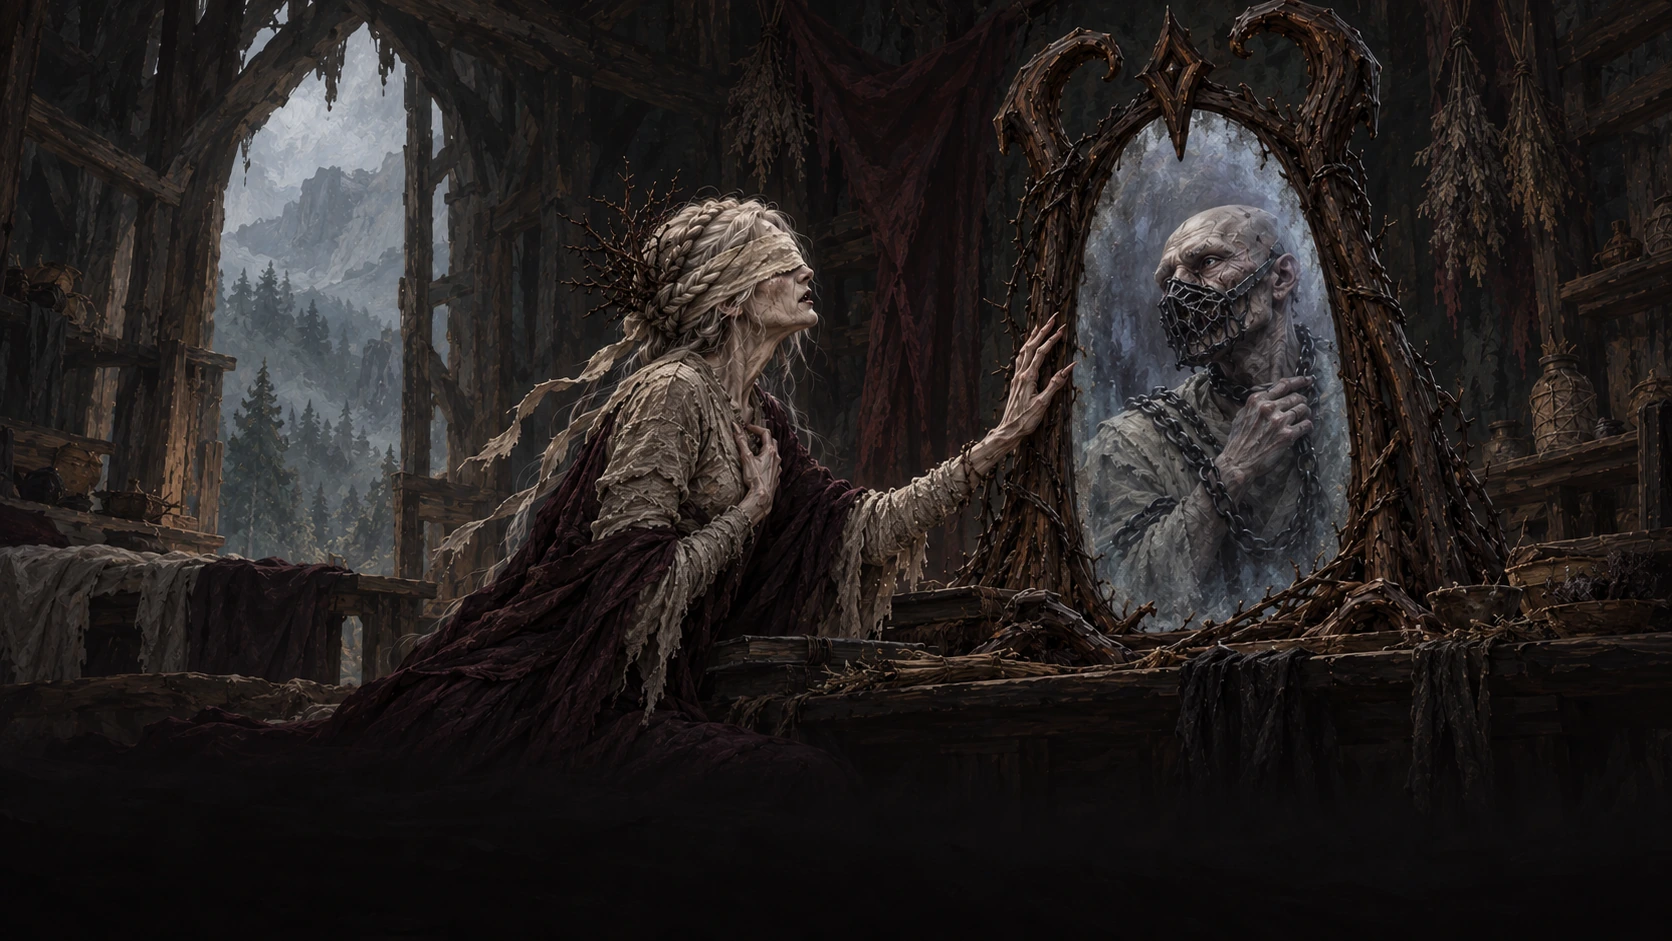
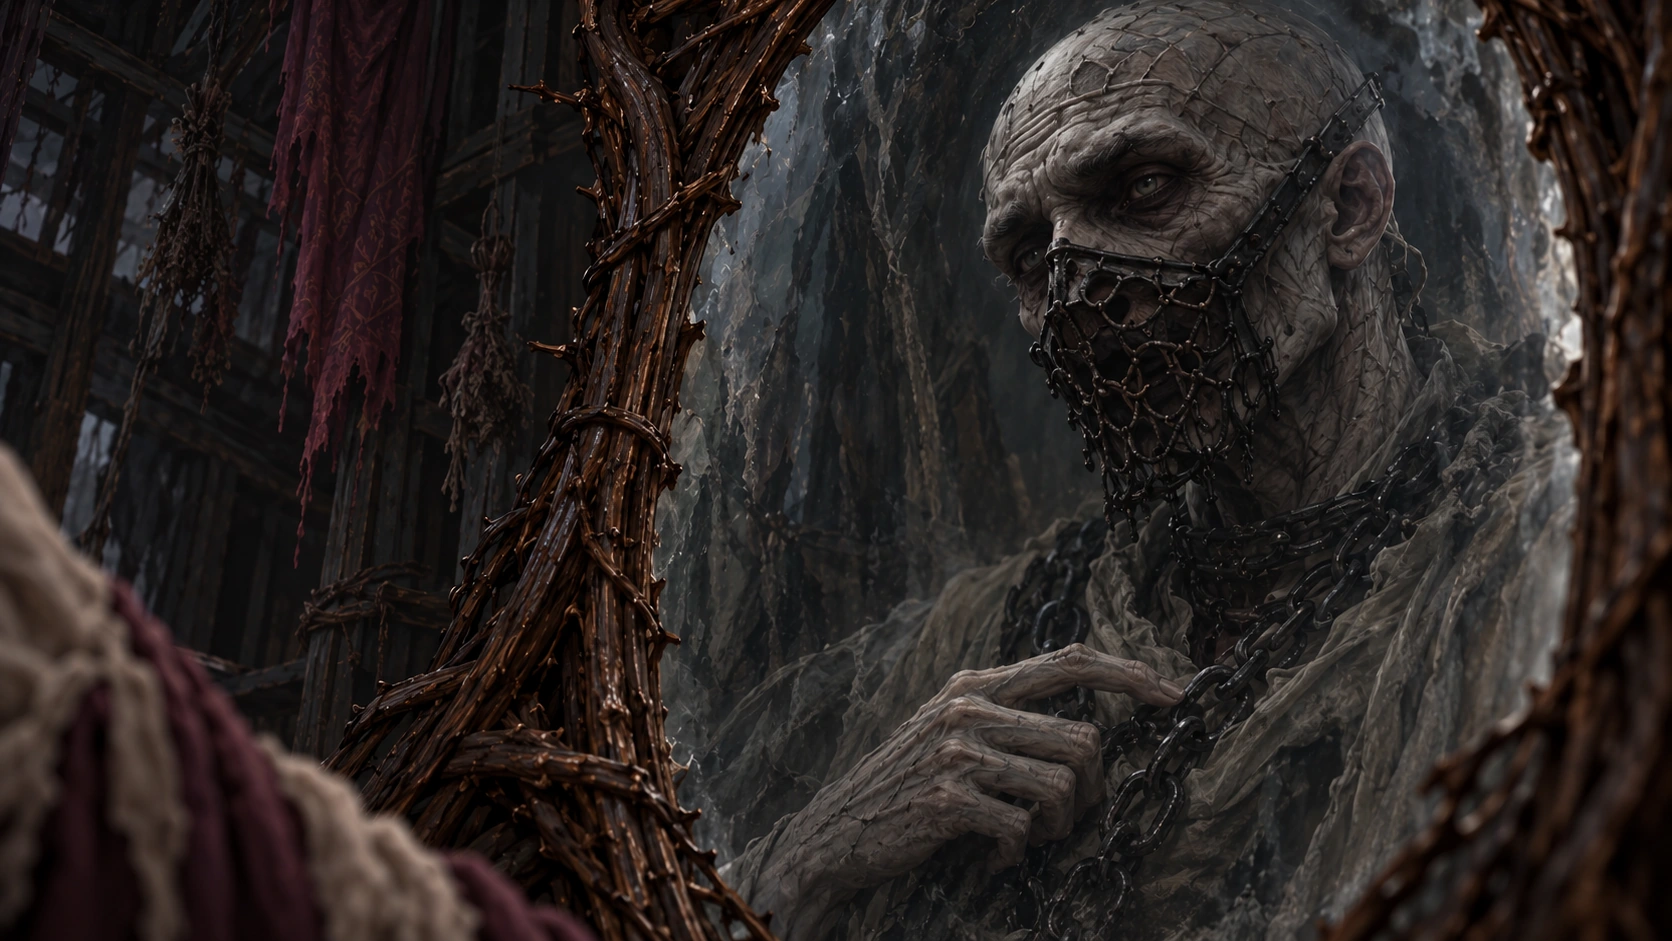
Add files via upload

diff --git a/book-data.js b/book-data.js
@@ -1400,7 +1400,7 @@ window.ARKVEIN_BOOK = {
       "id": "avernax-first-year",
       "title": "Первый год заточения",
       "section": "Авернакс · Башня Диоваля",
-      "image": "assets/avernax-dioval-early.webp?v=arcwane-identity-v9-20261004",
+      "image": "assets/avernax-dioval-early.webp?v=arcwane-restored-20261005",
       "alt": "Молодой Диоваль в первые годы заточения, ещё сохранивший человеческий облик.",
       "type": "story",
       "chapter": "avernax",
@@ -1417,7 +1417,7 @@ window.ARKVEIN_BOOK = {
       "id": "avernax-millennia",
       "title": "Тысячелетия ожидания",
       "section": "Авернакс · Башня Диоваля",
-      "image": "assets/avernax-millennia.webp?v=arcwane-chronology-v4-20261004",
+      "image": "assets/avernax-millennia.webp?v=arcwane-pages-v36-20261005",
       "alt": "Опустевшие владения хранителей после многих веков: башня стоит среди заросших руин.",
       "type": "story",
       "chapter": "avernax",
@@ -1485,7 +1485,7 @@ window.ARKVEIN_BOOK = {
       "id": "avernax-price",
       "title": "Цена лишних лет",
       "section": "Авернакс · Становление ведьмы",
-      "image": "assets/avernax-085-price.webp?v=arcwane-approved-v7-20261004",
+      "image": "assets/avernax-085-price.webp?v=arcwane-pages-v36-20261005",
       "alt": "Цена лишних лет — иллюстрация истории Авернакса.",
       "caption": "Светловолосая женщина принесла к корням обрядовую ткань. Она знала цену, но не могла принять жизнь, в которой любимый навсегда останется один. Той ночью она переступила черту, за которой начиналось ведьмовство.",
       "type": "story",
@@ -1553,8 +1553,8 @@ window.ARKVEIN_BOOK = {
       "id": "avernax-first-sight",
       "title": "Первое отражение",
       "section": "Авернакс · Зеркало",
-      "image": "assets/avernax-089-first-sight.webp?v=arcwane-first-reflection-v10-20261004",
-      "alt": "Проклятый Диоваль впервые видит переданный чарами образ Невиары в своей темнице и касается цепи пальцами.",
+      "image": "assets/avernax-089-first-sight.webp?v=arcwane-pages-v36-20261005",
+      "alt": "Первый ответ Диоваля в зачарованном зеркале Невиары: крупный косой ракурс на бледное лицо с тёмными глазницами и пальцы, касающиеся цепи.",
       "caption": "Ответить он не смог: решётка по-прежнему сжимала рот. Тогда он дважды коснулся цепи пальцами — так же, как прежде стучал в дверь их дома.",
       "type": "story",
       "chapter": "avernax",
